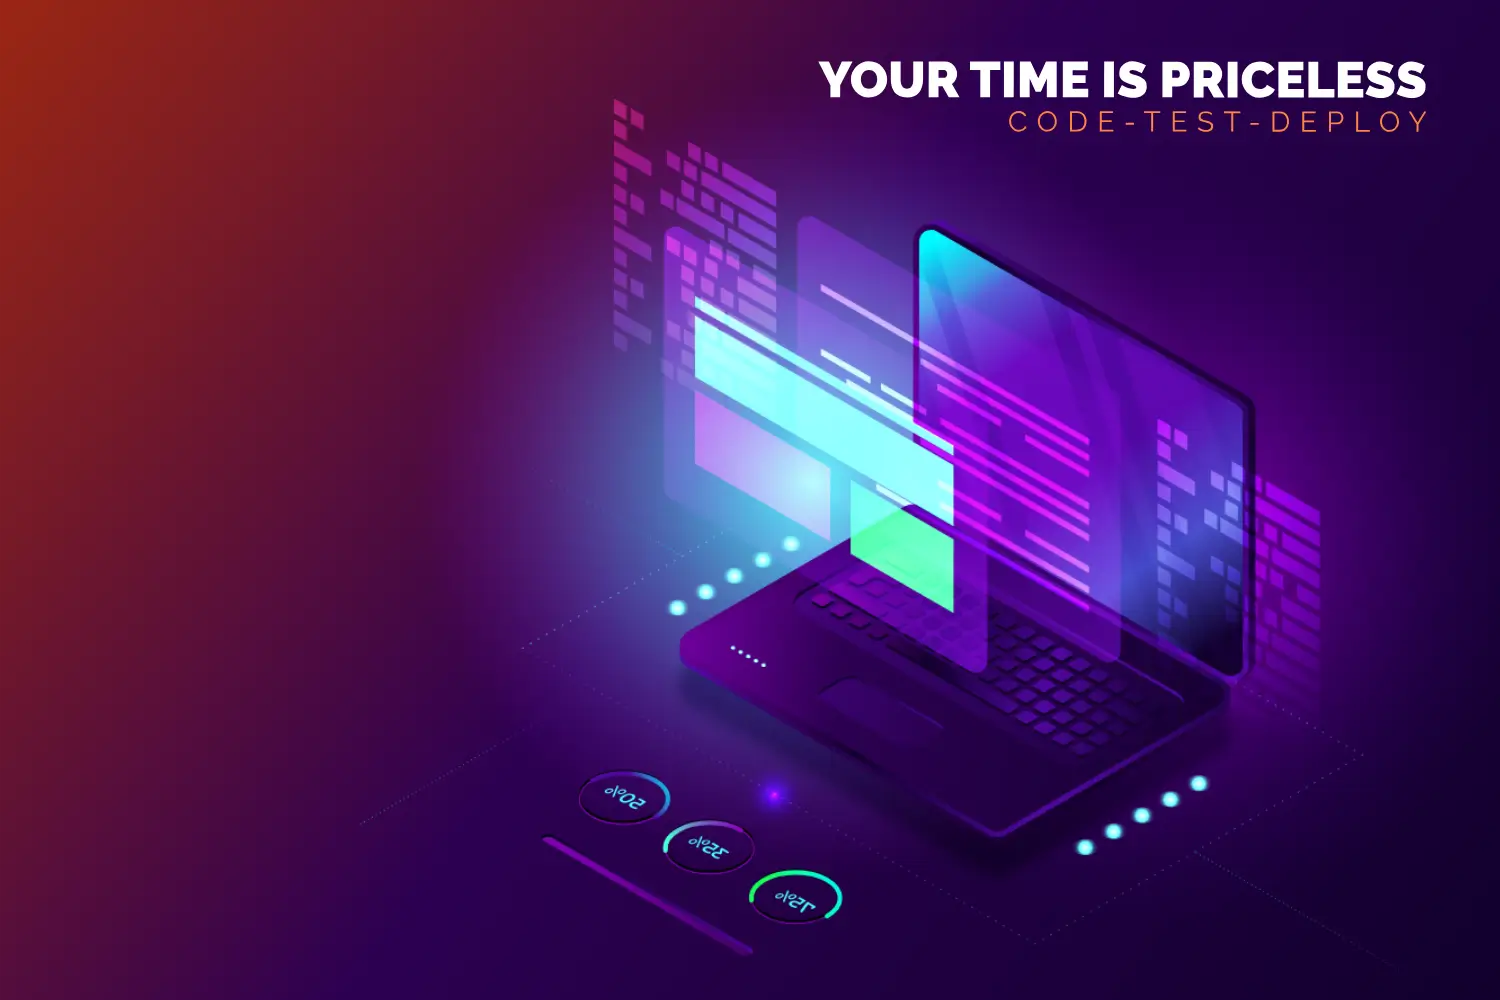
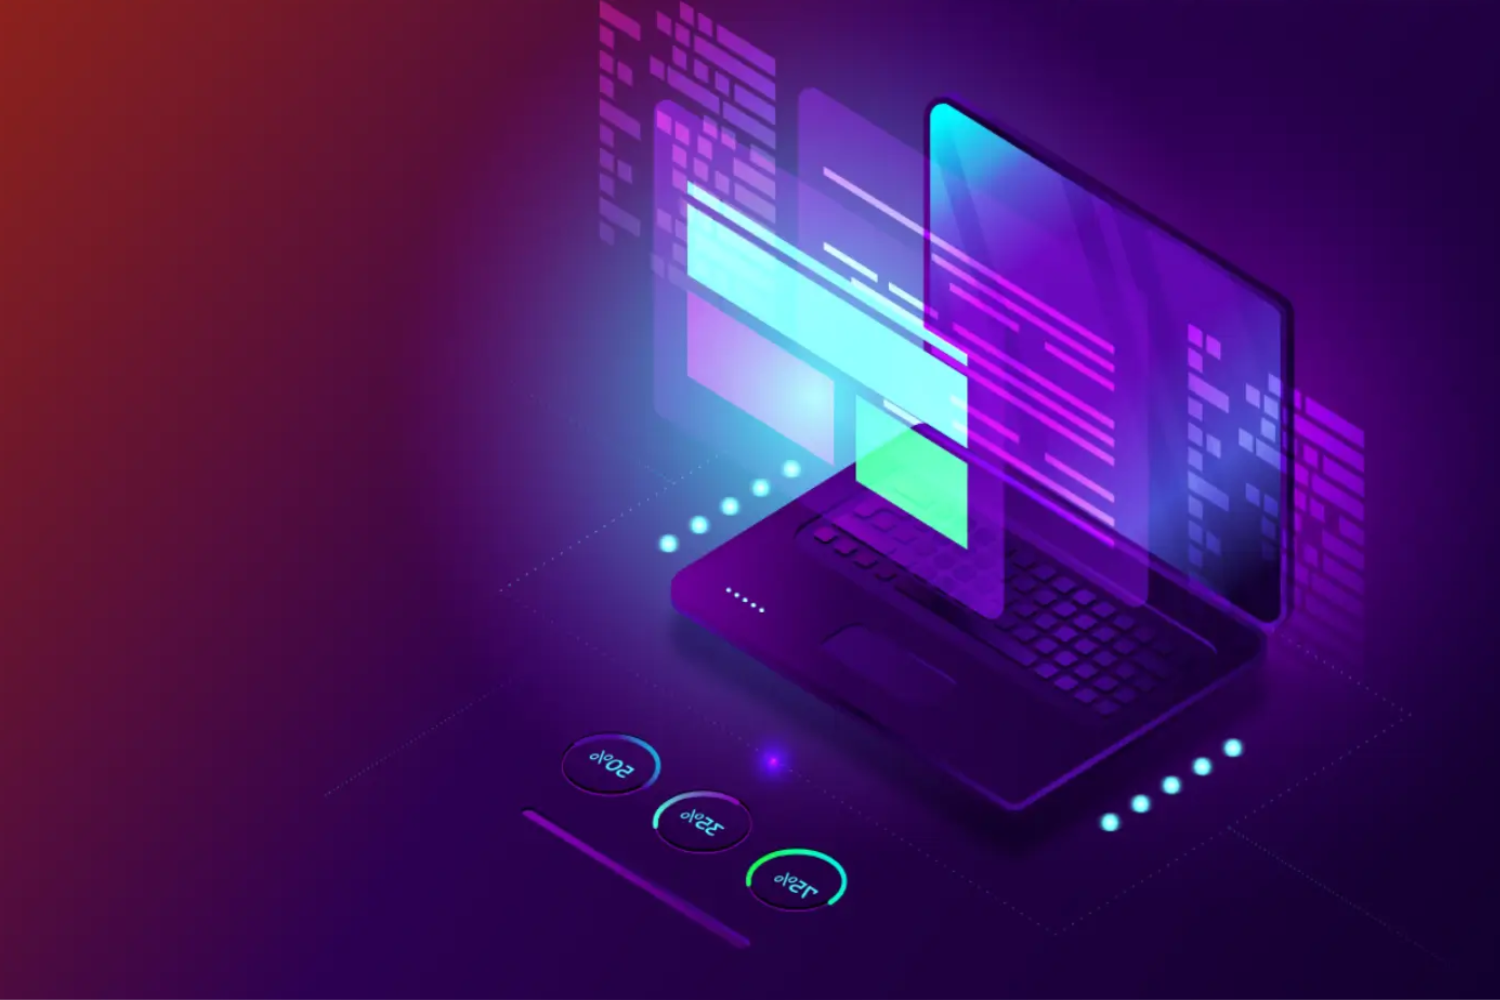
Changed b1.wepb image and Hero Title

diff --git a/components/Hero.tsx b/components/Hero.tsx
@@ -27,7 +27,7 @@ const Hero = () => {
           />
           <div className='flex flex-col w-full justify-center items-center mt-2'>
             <p className="text-center md:tracking-wider mb-4 text-sm md:text-lg lg:text-2xl">
-              Hi! I&apos;m Sebastián, a Next.js Developer based in <span className="bg-gradient-to-r from-yellow-400 via-blue-500 to-red-500 bg-clip-text text-transparent">
+              Hi! I&apos;m Sebastián, a Next.js/React Developer based in <span className="bg-gradient-to-r from-yellow-400 via-blue-500 to-red-500 bg-clip-text text-transparent">
                 Colombia
               </span>.
             </p>
